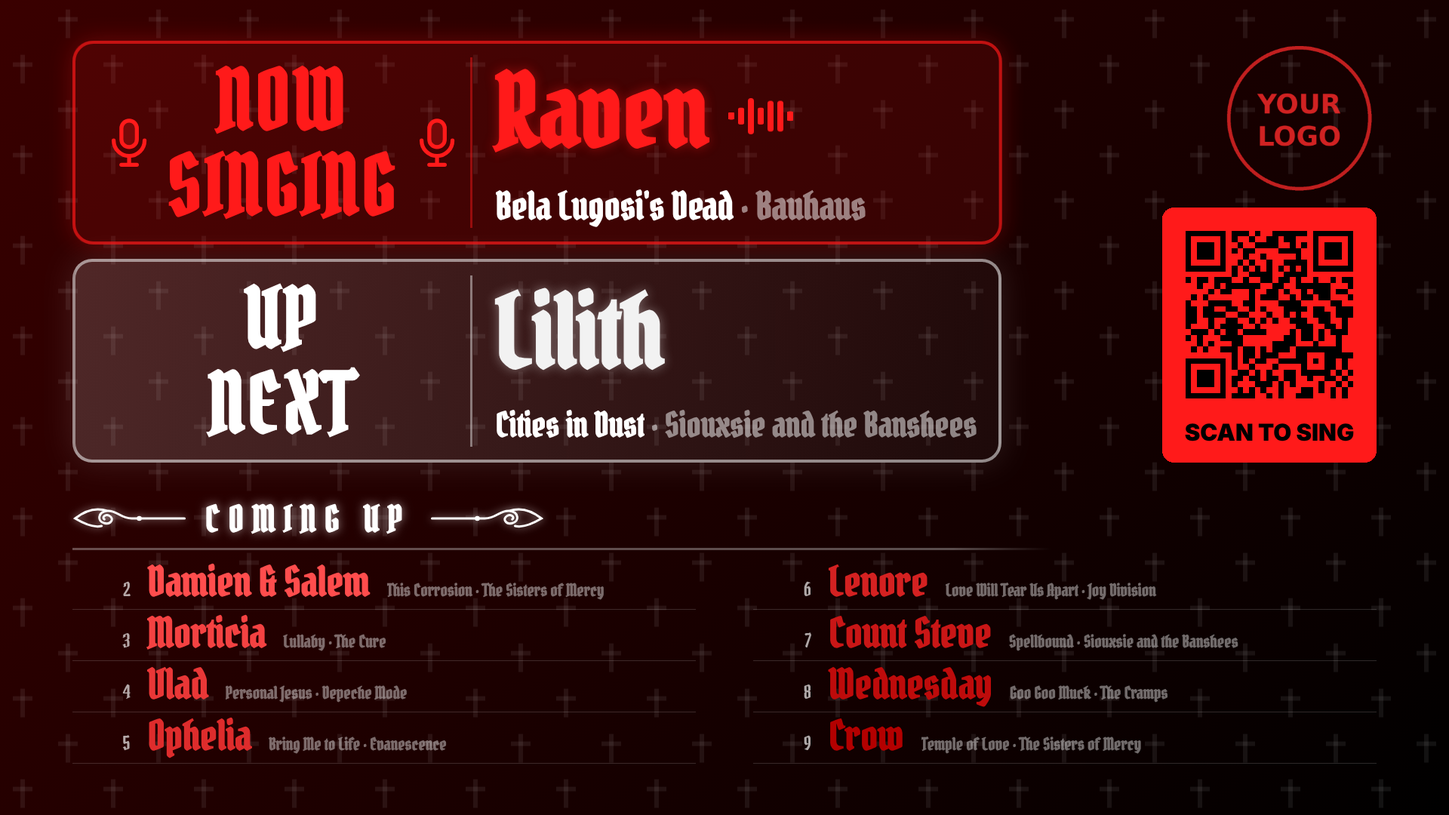
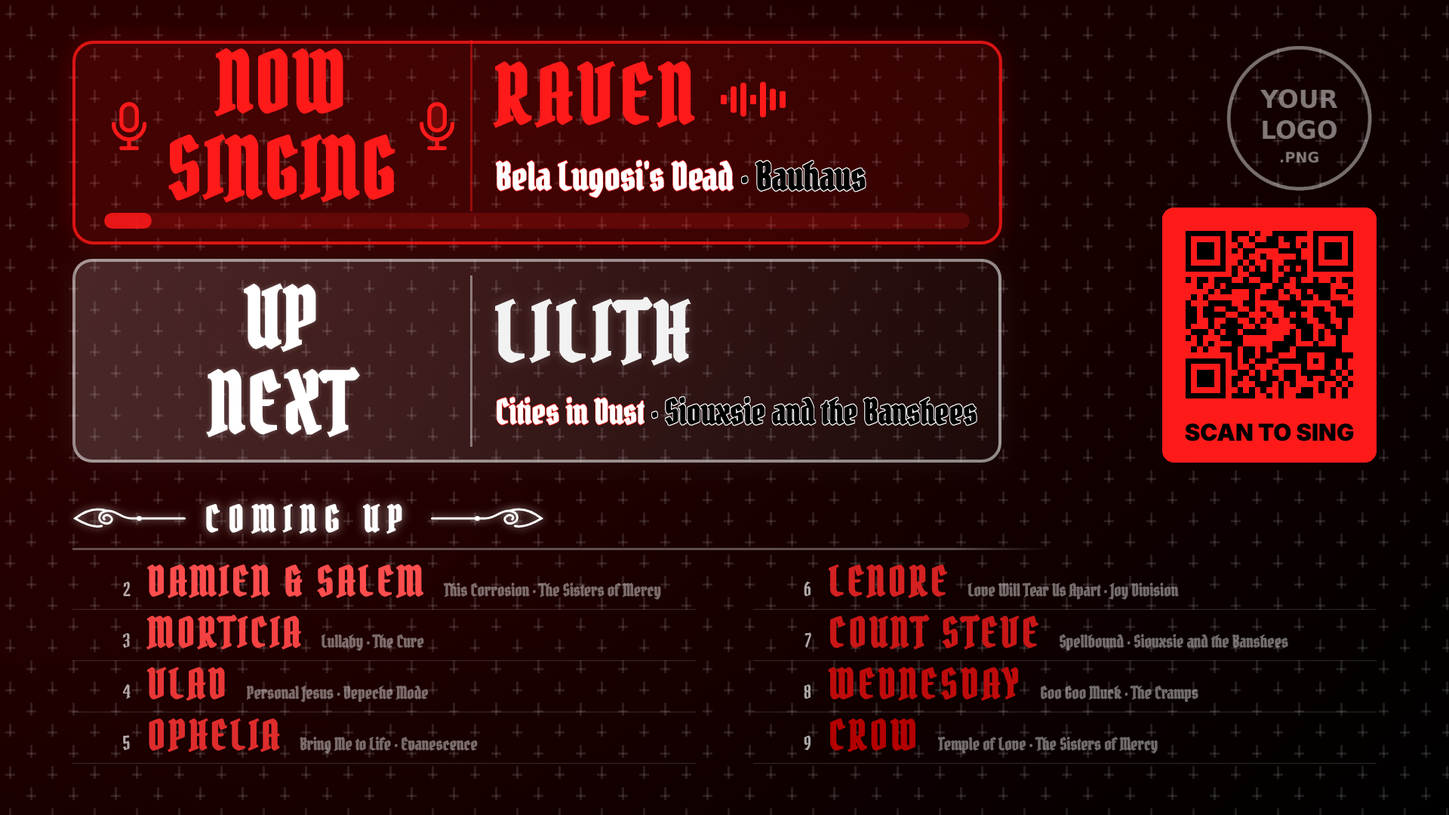
Empty-queue screen, singer flicker, softer glows, refreshed README; idle screen paused
Claude-Session: https://claude.ai/code/session_01T6WqMGWzKwPbF2TtYgSiwr

diff --git a/index.html b/index.html
@@ -50,9 +50,9 @@
   body.qrboth.intermission #brand { height: calc((100% - 30vh) * .36); }
   body.qrboth.intermission #brandQr { top: calc((100% - 30vh) * .4); left: 0; right: 0; width: 100%; height: calc((100% - 30vh) * .58); object-position: center; }
   #brand { transform-origin: calc(100% - 22vh) 50%; }
-  /* logosize=<percent>: smaller logo, centered in its corner, so there's more room between it and the boxes */
+  /* logosize=<percent>: smaller logo, flush with the right edge, so there is more room between it and the boxes */
   body.logosized:not(.qrboth):not(.intermission) #brand { height: calc(51.8vh * var(--ls)); width: calc(44vh * var(--ls));
-    top: calc(51.8vh * (1 - var(--ls)) / 2); right: calc(44vh * (1 - var(--ls)) / 2); transform-origin: calc(100% - 22vh * var(--ls)) 50%; }
+    top: calc(51.8vh * (1 - var(--ls)) / 2); right: 0; transform-origin: calc(100% - 22vh * var(--ls)) 50%; }
   /* Before play (just the Up Next box up top): Coming Up stays where it sits during a song */
   /* and the Up Next box sits centered in the space the two boxes normally take */
   body.prestart:not(.intermission) #heroWrap { margin-top: 13.4vh; }
@@ -82,7 +82,7 @@
   #breakMsg span { font-size: 6vh; font-weight: 700; opacity: .6; }
   /* applause=on: a full-screen "make some noise" splash when a singer finishes */
   #applause { position: fixed; inset: 0; z-index: 50; display: none; flex-direction: column; align-items: center; justify-content: center;
-    text-align: center; padding: 0 6vw; background: radial-gradient(ellipse at center, rgba(var(--now),.28), rgba(0,0,0,.92) 70%), #000; }
+    text-align: center; padding: 0 6vw; background: radial-gradient(ellipse at center, rgba(var(--now),.16), rgba(0,0,0,.92) 70%), #000; }
   /* spotlight=on / loop: Up Next takes over the whole screen for a bit, wiping in and out */
   #spot { position: fixed; inset: 0; z-index: 45; display: flex; flex-direction: column; align-items: center; justify-content: center;
     text-align: center; padding: 0 6vw; box-sizing: border-box; visibility: hidden; opacity: 0;
@@ -132,7 +132,7 @@
   #applause.on { display: flex; animation: applausein .6s ease-out; }
   #applause .pre { font-size: 7vh; font-weight: 900; letter-spacing: .12em; color: #fff; opacity: .85; text-transform: uppercase; }
   #applause .aname { max-width: 100%; font-size: 22vh; line-height: 1.05; font-weight: 900; color: rgb(var(--now)); white-space: nowrap; overflow: hidden;
-    text-overflow: ellipsis; text-shadow: 0 0 6vh rgba(var(--now),.7); animation: applausebeat .9s ease-in-out infinite; padding: 0 .1em; }
+    text-overflow: ellipsis; text-shadow: 0 0 3.5vh rgba(var(--now),.3); animation: applausebeat .9s ease-in-out infinite; padding: 0 .1em; }
   #applause .claps { font-size: 7vh; margin-top: 2vh; letter-spacing: .3em; color: #fff; opacity: .7; }
   @keyframes applausein { from { opacity: 0; transform: scale(1.08); } to { opacity: 1; transform: none; } }
   @keyframes applausebeat { 0%, 100% { transform: scale(1); } 50% { transform: scale(1.06); } }
@@ -162,7 +162,7 @@
   body.nopulse #nowBar::after { animation: none; }
   body.nosongs #list .what { display: none; }
   /* caps=on (default): singer names in capitals */
-  body.caps #nowBarName, body.caps #heroName, body.caps #list .who { text-transform: uppercase; }
+  body.caps #nowBarName, body.caps #heroName, body.caps #list .who, body.caps #applause .aname { text-transform: uppercase; }
   body.nonumbers #list .num { display: none; }
   /* mics=2: a mic on both sides of NOW SINGING */
   .mic2 { display: none; }
@@ -175,6 +175,10 @@
   /* nextflicker=on: the UP NEXT label flickers like a failing neon sign (on by default in goth) */
   @keyframes nameflicker { 0%, 31%, 35%, 61%, 63%, 100% { opacity: 1; } 32%, 34% { opacity: .2; } 62% { opacity: .45; } 80% { opacity: .9; } 81% { opacity: .35; } 82% { opacity: 1; } }
   body.nextflicker #nextLabelText { animation: nameflicker 7.4s linear infinite; }
+  /* The Now Singing name flickers a little, like an old neon sign (flicker=off for steady) */
+  @keyframes mildflicker { 0%, 40%, 43%, 74%, 77%, 100% { opacity: 1; } 41% { opacity: .62; } 42% { opacity: .9; } 75% { opacity: .75; } 76% { opacity: .95; } }
+  body:not(.noflicker) #nowBarName { animation: mildflicker 6.6s linear infinite; }
+  body:not(.noflicker) #spot.nowcard .sname { animation: spotglownow 2.4s ease-in-out infinite, mildflicker 6.6s linear infinite; }
   /* goth: UP NEXT softly glows (nextflicker=on swaps this for the flicker) */
   @keyframes labelglow { 0%, 100% { text-shadow: 0 0 .6vh rgba(var(--next),.25); } 50% { text-shadow: 0 0 2.2vh rgba(var(--next),.7); } }
   body.gothspot:not(.nextflicker) #nextLabelText { animation: labelglow 3.4s ease-in-out infinite; }
@@ -269,7 +273,26 @@
     text-shadow: 0 0 1.4vh rgba(var(--next),.2); }
   #heroSong { font-size: 4.6vh; font-weight: 800; color: #fff; margin-top: .6vh;
     white-space: nowrap; overflow: hidden; text-overflow: ellipsis; }
-  #empty { font-size: 8vh; color: var(--dim); margin: 2vh 0 4vh; }
+  /* Nobody singing and nobody in line: one big inviting card where the two boxes usually sit */
+  #empty { position: relative; box-sizing: border-box; height: 51.8vh; border-radius: 2.4vh; border: .4vh solid rgba(var(--next),.55);
+    background: linear-gradient(135deg, rgba(var(--next),.18), rgba(var(--now),.06));
+    display: flex; flex-direction: column; align-items: center; justify-content: center; text-align: center; gap: 2vh; padding: 0 3vw; }
+  #empty::after { content: ""; position: absolute; inset: -.4vh; border-radius: 2.6vh; pointer-events: none;
+    border: .4vh solid rgba(var(--next),.8); box-shadow: 0 0 3vh rgba(var(--next),.18); animation: pulse 5.2s ease-in-out infinite; }
+  #empty .emic { height: 9vh; width: auto; color: rgb(var(--now)); }
+  #empty .ebig { font-size: 11vh; font-weight: 900; line-height: 1; color: rgb(var(--next)); text-transform: uppercase;
+    text-shadow: 0 0 1.4vh rgba(var(--next),.2); }
+  body:not(.noflicker) #empty .ebig { animation: mildflicker 6.6s linear infinite; }
+  #empty .esub { font-size: 5vh; font-weight: 800; color: #fff; }
+  /* Empty queue with a logo: the logo big in the middle, the message underneath. Without a logo: the card centered. */
+  body.emptyq:not(.intermission) #view.nologo #empty { margin-top: 19vh; }
+  body.emptyq.emptyq:not(.intermission):not(.qrboth) #brand { top: 0; left: 0; right: 0; width: 100%; height: calc(100% - 30vh);
+    object-position: center; transform-origin: 50% 50%; }
+  body.emptyq:not(.intermission) #view:not(.nologo) #top { padding-right: 0; margin-top: auto; }
+  body.emptyq:not(.intermission) #view:not(.nologo) #empty { height: 26vh; gap: 1vh; }
+  body.emptyq:not(.intermission) #view:not(.nologo) #empty .emic { display: none; }
+  body.emptyq:not(.intermission) #view:not(.nologo) #empty .ebig { font-size: 10vh; }
+  body.emptyq:not(.intermission) #view:not(.nologo) #empty .esub { font-size: 4.4vh; }
   #nextLabel { font-size: 4.4vh; font-weight: 800; letter-spacing: .24em; color: #ffc27a; }
   /* Coming up: fills the first column, then a second column, side by side */
   /* Gap and divider between the two big boxes and Coming Up */
@@ -326,7 +349,9 @@
   .songline .ttl { flex: 0 0 auto; max-width: 100%; overflow: hidden; text-overflow: ellipsis; }
   .songline .art { flex: 0 1 auto; min-width: 0; overflow: hidden; text-overflow: ellipsis; }
   .what { min-width: 0; flex: 1; font-size: calc(var(--s) * 3.2vh); font-weight: 600; color: rgba(255,255,255,.42); white-space: nowrap; overflow: hidden; text-overflow: ellipsis; }
-  #list .openrow .who { opacity: .55; font-style: italic; }
+  #list .openrow .who { opacity: .55; font-style: italic; font-size: calc(var(--s) * 4.2vh); font-weight: 700; }
+  #list .openrow .what { font-size: calc(var(--s) * 2.6vh); }
+  #list .openrow { grid-column: 1 / -1; }
   #more { flex: none; font-size: 2.4vh; color: rgba(255,255,255,.5); margin-top: .8vh; text-align: right;
     display: -webkit-box; -webkit-line-clamp: 2; -webkit-box-orient: vertical; overflow: hidden; }
 
@@ -469,7 +494,7 @@
         </div>
       </div>
     </div>
-    <div id="empty" class="hidden">The queue is empty. Sign up to sing!</div>
+    <div id="empty" class="hidden"><svg class="emic" viewBox="0 0 24 24" aria-hidden="true" fill="none" stroke="currentColor" stroke-width="1.8" stroke-linecap="round" stroke-linejoin="round"><rect x="8.5" y="2" width="7" height="12" rx="3.5"/><path d="M5 11a7 7 0 0 0 14 0"/><path d="M12 18v4"/><path d="M8.5 22h7"/></svg><div class="ebig">Queue is empty</div><div class="esub">Come sign up to sing!</div></div>
   </div>
   <div id="nextWrap">
     <div id="nextLabel"><span>COMING UP</span><span id="clock"></span></div>
@@ -564,7 +589,7 @@ var qrcode=function(){var t=function(t,r){var e=t,n=g[r],o=null,i=0,a=null,u=[],
   var CFG_KEY = "kqv.cfg";
   var cfg = {};
   try { cfg = JSON.parse(load(CFG_KEY) || "{}") || {}; } catch (e) { cfg = {}; }
-  var OPTS = ["logo", "bg1", "bg2", "up1", "up2", "now", "next", "icons", "pulse", "songs", "title", "artist", "count", "time", "font", "idle", "clock", "eta", "gap", "long", "dance", "numbers", "line", "theme", "bgimg", "pattern", "mic", "mics", "excited", "dots", "equity", "upin", "align", "vu", "applause", "qr", "qrtext", "qrbg", "drip", "scroll", "nextflicker", "flourish", "qrswap", "caps", "spotlight", "spin", "logosize", "vignette"];
+  var OPTS = ["logo", "bg1", "bg2", "up1", "up2", "now", "next", "icons", "pulse", "songs", "title", "artist", "count", "time", "font", "idle", "clock", "eta", "gap", "long", "dance", "numbers", "line", "theme", "bgimg", "pattern", "mic", "mics", "excited", "dots", "equity", "upin", "align", "vu", "applause", "qr", "qrtext", "qrbg", "drip", "scroll", "nextflicker", "flourish", "qrswap", "caps", "spotlight", "spin", "logosize", "vignette", "flicker"];
   // A link with any look options replaces the saved look; a bare link (just code=) keeps it.
   // The preview never uses what this device saved.
   if (DEMO || OPTS.some(function (k) { return params.has(k); })) cfg = {};
@@ -719,7 +744,8 @@ var qrcode=function(){var t=function(t,r){var e=t,n=g[r],o=null,i=0,a=null,u=[],
     function noLogo() { img.classList.add("hidden"); $("view").classList.add("nologo"); fitCache = {}; placeBrandFx(); }
     var qrSvg = makeQr();
     clearInterval(splitTimer);
-    var ls = parseFloat(cfg.logosize); if (isNaN(ls)) ls = 80;   // logos sit at 80% by default; logosize=100 for full size
+    document.body.classList.toggle("noflicker", off("flicker"));
+    var ls = parseFloat(cfg.logosize); if (isNaN(ls)) ls = 70;   // logos sit at 70% by default; logosize=100 for full size
     document.body.classList.toggle("logosized", ls > 0 && ls < 100);
     if (ls > 0 && ls < 100) document.documentElement.style.setProperty("--ls", Math.max(40, ls) / 100);
     var spinSec = parseFloat(cfg.qrswap); if (isNaN(spinSec)) spinSec = 5; spinSec = Math.max(3, Math.min(120, spinSec));
@@ -847,6 +873,7 @@ var qrcode=function(){var t=function(t,r){var e=t,n=g[r],o=null,i=0,a=null,u=[],
   var idleMin = off("idle") ? 0 : parseFloat(cfg.idle);
   // Off unless turned on: idle=5 (minutes), or idle=on for 5.
   if (isNaN(idleMin) || idleMin < 0) idleMin = /^(on|yes|true|1)$/i.test(String(cfg.idle || "")) ? 5 : 0;
+  idleMin = 0;   // Idle screen paused for everyone for now (it hid Coming Up while people were waiting); idle= is ignored.
   var lastPlay = Date.now();
   var onBreak = false;
   // applause=on (experimental): when a singer finishes, a "make some noise for NAME!!!" splash for 10 seconds
@@ -1183,6 +1210,7 @@ var qrcode=function(){var t=function(t,r){var e=t,n=g[r],o=null,i=0,a=null,u=[],
       fitName();
     }
     $("empty").classList.toggle("hidden", !!cur || onBreak);
+    document.body.classList.toggle("emptyq", !cur && !onBreak);
 
     listState = { items: listItems, perCol: singing ? 3 : 6, heroSpecial: !heroItem || isBreakItem(heroItem) };
     $("nextWrap").classList.toggle("hidden", onBreak || comingCount === 0 || (listItems.length === 0 && !singing && !heroItem));
@@ -1448,7 +1476,7 @@ var qrcode=function(){var t=function(t,r){var e=t,n=g[r],o=null,i=0,a=null,u=[],
       html += '<div class="row"><span class="num">' + num +
         '</span><div class="cell"><div class="who' + (danceClass(specialOf(it)) ? " rainbow" : x.special === "lastcall" ? " lastcall" : (specialOf(it) && specialOf(it).kind === "brb") ? " brb" : "") + '" style="color:' + shade(i) + ";" + danceStyle(specialOf(it)) + '">' + esc(l.big) + '</div><div class="what mq">' + esc(l.small) + '</div></div><span class="eta" data-id="' + esc(String(it.id)) + '"></span></div>';
     });
-    if (!items.length) html = '<div class="row openrow"><span class="num"></span><span class="who">Your name here</span><span class="what">Nobody else signed up yet · come pick a song!</span></div>';
+    if (!items.length) html = '<div class="row openrow"><span class="num"></span><span class="who">Queue is empty</span><span class="what">Come sign up!</span></div>';
     list.innerHTML = html;
     updateTimes();
     $("more").textContent = "";
@@ -1942,10 +1970,11 @@ var qrcode=function(){var t=function(t,r){var e=t,n=g[r],o=null,i=0,a=null,u=[],
     ["time", "Song progress", [["", "Bar"], ["both", "Bar + countdown"], ["off", "Off"]]],
     ["clock", "Clock", [["", "On"], ["off", "Off"]]],
     ["caps", "Names", [["", "ALL CAPS"], ["off", "As typed"]]],
-    ["logosize", "Logo size", [["", "80%"], ["60", "60%"], ["70", "70%"], ["90", "90%"], ["100", "100%"]]],
+    ["logosize", "Logo size", [["", "70%"], ["60", "60%"], ["80", "80%"], ["90", "90%"], ["100", "100%"]]],
     ["spin", "Logo spin", [["", "Off"], ["on", "Every 5 sec"]]],
     ["qr", "QR code", [["", "Off"], ["on", "Instead of logo"], ["split", "Flips with logo"], ["both", "Both"]]],
     ["vignette", "Vignette", [["", "Soft"], ["60", "Strong"], ["off", "Off"]]],
+    ["flicker", "Singer flicker", [["", "On"], ["off", "Off"]]],
     ["logo", "Logo link", "input"]
   ];
   var ed = {};

diff --git a/README.md b/README.md
@@ -3,8 +3,8 @@
 </p>
 
 <p align="center">
-  <a href="https://kjqv.github.io/"><img src="https://img.shields.io/badge/Open%20KJQV-ff5fb0?style=for-the-badge" alt="Open KJQV"></a>
-  <a href="https://kjqv.github.io/?demo"><img src="https://img.shields.io/badge/See%20a%20preview-ffb347?style=for-the-badge" alt="See a preview"></a>
+  <a href="https://kjqv.github.io/"><img src="https://img.shields.io/badge/Open%20KJQV-b04dff?style=for-the-badge" alt="Open KJQV"></a>
+  <a href="https://kjqv.github.io/?demo"><img src="https://img.shields.io/badge/See%20a%20preview-0091d5?style=for-the-badge" alt="See a preview"></a>
   <a href="https://ko-fi.com/4kjqv"><img src="https://img.shields.io/badge/Buy%20me%20a%20coffee-7b2ff7?style=for-the-badge&logo=kofi&logoColor=white" alt="Buy me a coffee on Ko-fi"></a>
 </p>
 
@@ -18,26 +18,36 @@
 
 **Open it:** https://kjqv.github.io/ · **Preview:** https://kjqv.github.io/?demo shows a made-up sample queue (your real queue needs KaraFun with remote control on). It runs on any smart TV with a browser, or any device with a browser hooked up to a screen: a Fire Stick (Silk), a laptop on HDMI, a tablet, a Raspberry Pi, and so on.
 
-| Your colors | Or a theme |
+| The default look (add your logo) | Or a theme |
 |---|---|
-| ![Now Singing, Up Next and Coming Up](screenshots/sample-playing.png) | ![Goth theme with two mics and no timers](screenshots/sample-goth.png) |
+| ![Now Singing, Up Next and Coming Up](screenshots/sample-playing.png) | ![Goth theme with a logo and a scan-to-sing QR code](screenshots/sample-goth.png) |
+| **Spotlight** (on by default) | **When nobody's signed up** |
+| ![Full-screen NOW SINGING card](screenshots/spotlight-now.png) | ![Your logo with QUEUE IS EMPTY · Come sign up to sing!](screenshots/empty-queue.png) |
 
 ## What it shows
 
 - **Now Singing:** the current singer and song, with time left.
 - **Up Next:** the next singer, big, so they know to get ready. Before you press play, the singer whose song is loaded shows here.
-- **Coming Up:** the rest of the line, with a rough wait time for each person.
+- **Coming Up:** the rest of the line, with a rough wait time for each person. If nobody else is waiting, it says **QUEUE IS EMPTY · Come sign up!**
+- **An empty queue:** your logo big in the middle with **QUEUE IS EMPTY · Come sign up to sing!** under it, so the screen still works for you when the night is slow.
 
 **Optional extras:**
 
 - **Spotlight mode** (on by default; `spotlight=off` to turn it off): the screen wipes over to a big full-screen card: **NOW SINGING** while a song plays, **UP NEXT** near the end and between songs, switching back and forth with the normal screen. [See it in goth](https://kjqv.github.io/goth).
 - **Scan-to-sing QR code** (`qr=on`) so guests can join your KaraFun session and add songs. Use it in place of your logo, flip between your logo and the QR code like a coin every 5 seconds (`qr=split`), or show both, small (`qr=both`).
-- **Applause mode** (`applause=on`, *experimental*): a big "MAKE SOME NOISE FOR (name)!!!" when each singer finishes.
+- **Applause mode** (`applause=on`): a big "MAKE SOME NOISE FOR (name)!!!" when each singer finishes.
 - **Equity mode** (`equity=on`, *experimental*): spaces out repeat singers in KaraFun's queue so everyone gets a turn.
 - **Planned breaks and announcements:** queue `BRB KJ 15`, `DANCE! 10` or `LAST CALL` as a singer name and the screen shows a countdown, a DANCE PARTY or a flashing LAST CALL. Nothing to turn on.
-- **Idle screen** (`idle=5`, *experimental*): switches to your logo and Up Next when nothing's played for a while.
+- **Idle screen** (`idle=5`): *paused for now while I rework it.* The setting is ignored, so the screen always shows the full queue.
 
-It follows KaraFun exactly: skip, reorder or delete in KaraFun and the screen updates instantly. A song queued with no singer name shows the artist in the big slot instead. Colors, counts, timings and the rest can be changed in the link (see [Make it your own](#make-it-your-own)).
+**Built to run all night, hands-off:**
+
+- **An on-screen Options menu:** pick a theme, colors and your logo, and turn features on or off, with a TV remote or a tap. See [Make it your own](#make-it-your-own).
+- **Updates itself:** when a new version comes out, the screen picks it up by itself at the next gap between songs. Nothing to reinstall or reload.
+- **Stays awake** where the device allows it, and the mouse pointer hides after a minute.
+- **Reconnects by itself** if the Wi-Fi drops or KaraFun restarts.
+
+It follows KaraFun exactly: skip, reorder or delete in KaraFun and the screen updates instantly. A song queued with no singer name shows the artist in the big slot instead. Colors, counts, timings and the rest are all adjustable (see [Make it your own](#make-it-your-own)).
 
 KaraFun doesn't share the playback position, so the time-left countdown starts when you press play and follows pauses. If you open the page in the middle of a song on a new device, it shows the song's length until the next song starts. In the last 20 seconds of a song, the Up Next box glows so the next singer heads up (and with `time=both`, the countdown flashes too).
 
@@ -46,8 +56,10 @@ KaraFun doesn't share the playback position, so the time-left countdown starts w
 The first time you open the page, it asks for the 6-digit **remote control code** that KaraFun already shows your guests (it's in the QR code they scan to add songs) and connects to your session with it.
 
 - The code is saved only in that device's browser. It only appears on the screen if you turn on `qr=on`, which shows the same join QR code KaraFun gives your guests.
-- There's no account and no server collecting anything. The page talks directly to KaraFun.
-- It only **reads** the queue and never changes it. It shows up as **KJQV** in KaraFun's list of connected guests.
+- There's no account, no sign-up, no ads, no tracking, and no server of mine collecting anything. The whole app is one web page.
+- The page talks directly to KaraFun. The only other things it loads are your logo (from wherever you host it), a Google Font if you pick one, and its own page from GitHub to check for updates.
+- It only **reads** the queue and never changes it: it can't add, remove or reorder songs, and it can't touch your KaraFun account or billing. It shows up as **KJQV** in KaraFun's list of connected guests.
+- It's open source: everything is in one file, [index.html](index.html), that anyone can read.
 
 ## What you need
 
@@ -63,28 +75,33 @@ The first time you open the page, it asks for the 6-digit **remote control code*
 
 The code is saved on that device, so next time you just open the page. You can also bookmark it with your code built in: `?code=123456`.
 
-On a TV remote or keyboard, press any arrow or select/Enter to open a small menu with **Full screen** and **Change code**.
+To open the small menu (**Full screen**, **Options**, **Change code**), tap or click the screen, or press any arrow or select/Enter on a TV remote or keyboard. It closes by itself after 10 seconds, so nothing gets in the way of the queue.
 
 ## Make it your own
 
-![What you can adjust](screenshots/what-you-can-adjust.png)
+**The easy way: the Options menu.** On the code screen, press **Customize the look**. Or, once your queue is showing, tap the screen (or press an arrow on a TV remote) and choose **Options**. Pick a theme, colors and your logo, turn features on or off, and press **Save**. Your choices are remembered on that device. The menu only appears when you open it, so guests never see it.
 
-Tip: add any of these to the preview link to see how they look on the sample queue, like `https://kjqv.github.io/?demo&theme=goth`. The preview doesn't save anything.
+![The Options menu](screenshots/options-panel.png)
 
-**No link editing needed for the common settings:** press **Customize the look** on the code screen, or on the live screen tap anywhere (or press an arrow key on the remote) and choose **Options**. Nothing shows on the live screen unless you open it, and Save puts your choices in the link so you can bookmark it.
+**More settings: add them to the page address.** Everything in the Options menu, plus a lot more (fonts, patterns, wait-time tweaks and so on), can also be set by adding it to the end of the web address, separated by `&`. Like this: `https://kjqv.github.io/?code=123456&theme=goth`. That's handy for bookmarking an exact setup, or for setting up several screens the same way. You never have to do this, but it's there if you want it.
 
-Add your logo and colors right in the link, separated by `&`. Anything you leave out uses the defaults: no logo, a deep purple-to-blue fade with a soft vignette, cyan Now Singing, violet Up Next, and yellow-to-red Coming Up names.
+![Settings you can add to the address](screenshots/what-you-can-adjust.png)
+
+Tip: try any of these on the sample queue first, like `https://kjqv.github.io/?demo&theme=goth`. The preview doesn't save anything.
+
+Anything you don't set uses the defaults: no logo, a deep purple-to-blue background with softly darkened edges, cyan Now Singing, violet Up Next, and yellow-to-red Coming Up names.
 
 <details>
-<summary><b>All options (tap to open)</b></summary>
+<summary><b>Every setting you can add to the address (tap to open)</b></summary>
 
 | Option | What it does | Example |
 |---|---|---|
 | `code` | Your KaraFun remote control code | `code=123456` |
 | `logo` | A direct link to your logo image. A transparent PNG looks best | `logo=https://i.imgur.com/abc123.png` |
 | `spin` | `on` makes your logo spin like a coin every 5 seconds (`qrswap=10` for every 10) | `spin=on` |
-| `logosize` | Logo size in percent, 40 to 100 (default 80, which leaves room between it and the boxes) | `logosize=100` |
+| `logosize` | Logo size in percent, 40 to 100 (default 70, which leaves room between it and the boxes) | `logosize=100` |
 | `vignette` | How much the edges of the background darken, 1 to 100 (default 30; `on` is 60, `off` removes it) | `vignette=off` |
+| `flicker` | The Now Singing name flickers a little, like old neon (on by default); `off` keeps it steady | `flicker=off` |
 | `bg1`, `bg2` | Background fade colors, top-left to bottom-right | `bg1=0b3d2e&bg2=1f7a5a` |
 | `up1`, `up2` | Coming Up name colors, from next in line to last | `up1=00e5ff&up2=0055ff` |
 | `now` | Now Singing color (default cyan) | `now=39ff88` |
@@ -127,7 +144,7 @@ Add your logo and colors right in the link, separated by `&`. Anything you leave
 
 ### Extra modes
 
-Tap one to read more. Planned breaks work any time; the others are off until you turn them on.
+Tap one to read more. Spotlight is on by default and planned breaks work any time; the others are off until you turn them on.
 
 <details open>
 <summary><b>Spotlight mode</b></summary>
@@ -146,9 +163,9 @@ Keeps the focus on who's singing and who's up next. **On by default** (as `loop`
 </details>
 
 <details>
-<summary><b>Applause mode <i>(experimental)</i></b></summary>
+<summary><b>Applause mode</b></summary>
 
-Off by default. Add `applause=on` and when a singer finishes, the screen shows a big **MAKE SOME NOISE FOR (name)!!!** for 10 seconds (`applause=15` for 15, anywhere from 3 to 60). After that it stays on your logo with Up Next along the bottom until the next song starts. With no logo it says "Thank you, (name)!" instead. It only fires after a song has played for at least 30 seconds, and it skips BRB, Dance Party and other special names.
+Off by default. Add `applause=on` and when a singer finishes, the screen shows a big **MAKE SOME NOISE FOR (name)!!!** for 10 seconds (`applause=15` for 15, anywhere from 3 to 60). After that, spotlight takes over (or, with `spotlight=off`, it stays on your logo with Up Next along the bottom until the next song starts). With no logo it says "Thank you, (name)!" instead. It only fires after a song has played for at least 30 seconds, and it skips BRB, Dance Party and other special names.
 
 | When a song ends | Then, until you hit play |
 |---|---|
@@ -186,9 +203,11 @@ These are just singer names to KaraFun, so KaraFun's own screen and scrolling qu
 </details>
 
 <details>
-<summary><b>Idle screen <i>(experimental)</i></b></summary>
+<summary><b>Idle screen <i>(paused for now)</i></b></summary>
 
-Turn this on with `idle=5` and if nothing has played for 5 minutes, the screen switches to a simpler idle screen: your logo big in the middle (or "Short break" if you haven't set a logo) plus the Up Next box. As soon as you press play, it goes back to normal. It's off by default. Planned breaks (`BRB`, `DANCE!`, `LAST CALL`) work either way.
+**Paused for now:** `idle=` is ignored while I rework this, so the screen always shows Up Next and Coming Up. The description below is how it worked.
+
+Turn this on with `idle=5` and if KaraFun hasn't played anything for 5 minutes (say you're playing a song from YouTube, or taking a music break), the screen switches to a simpler idle screen: your logo big in the middle (or "Short break" if you haven't set a logo) plus the Up Next box. As soon as you press play, it goes back to normal. It's off by default. Planned breaks (`BRB`, `DANCE!`, `LAST CALL`) work either way.
 
 | Option | What it does | Example |
 |---|---|---|
@@ -269,13 +288,15 @@ Any PNG or JPG hosted on the web works: point `logo=` (or `bgimg=`) at the image
 ## More info
 
 <details>
-<summary><b>Fire Stick tips</b></summary>
+<summary><b>Fire Stick tips (and which Fire Stick to get)</b></summary>
 
+- **Check which Fire Stick you have.** Amazon's newest sticks run **Vega OS** instead of Fire OS: the **Fire TV Stick HD (2nd Gen, 2026)**, anything named **Select**, and the newest plain **Fire TV Stick 4K** (3rd gen). They can't install other apps, and they go to sleep after about 20 minutes no matter what the page does. Check under **Settings → My Fire TV → About**: a version that says **Fire OS** is fine; one that starts with **1** or **2** is Vega OS.
+- **For an always-on screen, use a Fire OS stick** (a Fire TV Stick 4K Max or 4K Plus is a good pick, and older sticks work too) with **[Fully Kiosk Browser](https://www.fully-kiosk.com)** *(not affiliated)* instead of Silk. Install the **Downloader** app by AFTVnews from the Amazon Appstore, use it to download Fully Kiosk from fully-kiosk.com, set the **Start URL** to your KJQV link, and turn on **Keep Screen On**. That gets around the 20-minute sleep.
 - **Hide Silk's address bar:** once the page loads, press **down** on the remote.
 - **Stop the screensaver:** turn off **Ambient Experience**, or set **Settings → Display & Sounds → Screensaver → Start Time → Never**.
 - **Edges cut off?** The TV is cropping the picture. Try **Settings → Display & Sounds → Display → Calibrate Display** on the Fire Stick, or set the TV's picture size to "Just Scan" or "Fit to Screen".
 - **Typing the link:** Amazon's Fire TV phone app gives you a phone keyboard.
-- **Not seeing an update?** Silk can keep an old copy for up to 10 minutes. Add something like `&v=2` to the end of the link to force a fresh one.
+- **Not seeing an update?** The screen updates itself at the next gap between songs. To get it right away, add something like `&v=2` to the end of the link.
 
 </details>
 
@@ -305,6 +326,10 @@ Fork this repo and turn on GitHub Pages (**Settings → Pages → Deploy from a 
 I wanted KaraFun to stay in charge of the queue, with no account or sign-up, and my remote code never leaving the screen's own browser. KJQV just shows what KaraFun already knows.
 
 </details>
+
+## How this was made
+
+In the spirit of transparency: I'm a working KJ, not a professional programmer. I designed KJQV around what my singers needed and tested every feature at real shows, and I wrote the code with help from an AI coding assistant (Claude). Every line is public in [index.html](index.html), so nothing is hidden. Read it, or have someone you trust look it over.
 
 ## Support
 
